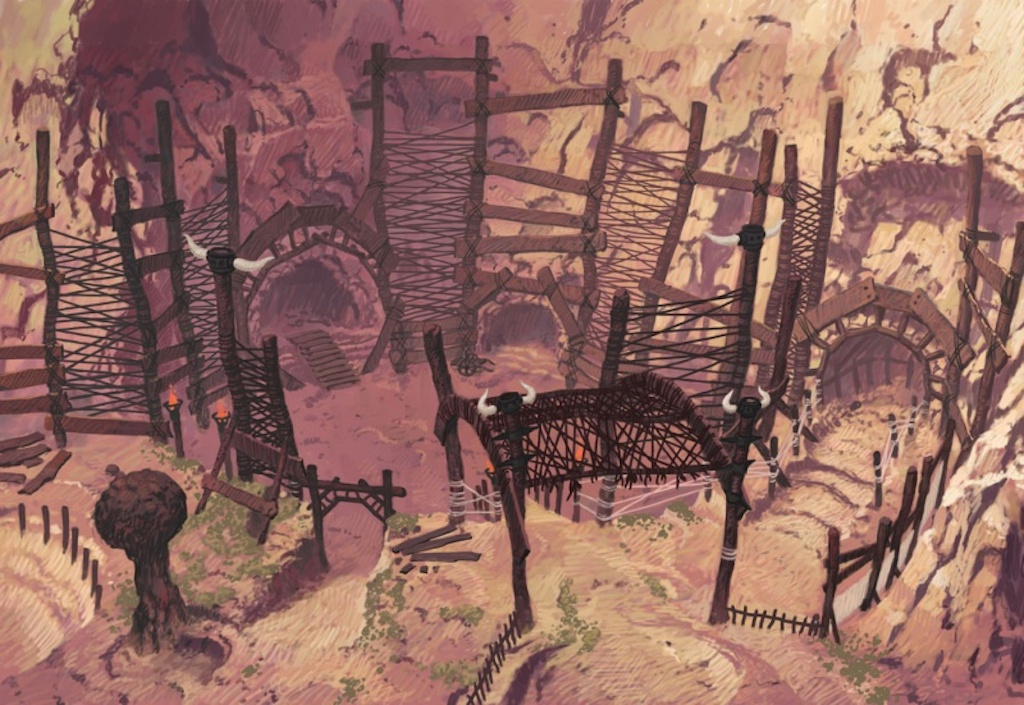
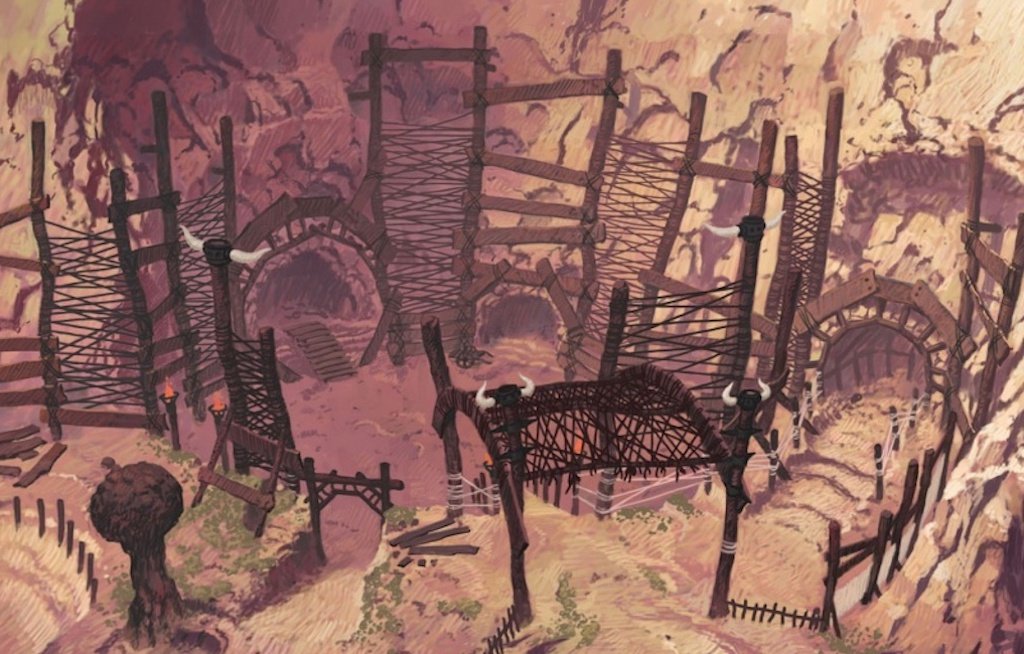
add forntend

diff --git a/public/html/story_id_14.html b/public/html/story_id_14.html
@@ -8,7 +8,7 @@
     <link rel="stylesheet" href="https://cdnjs.cloudflare.com/ajax/libs/materialize/1.0.0/css/materialize.min.css">
     <!-- Compiled and minified JavaScript -->
     <script src="https://cdnjs.cloudflare.com/ajax/libs/materialize/1.0.0/js/materialize.min.js"></script>
-    <link rel="stylesheet" href="../css/story_id_13.css">    
+    <link rel="stylesheet" href="../css/story_id_14.css">    
 </head>
 <body>
 <!-- <body> -->
@@ -26,15 +26,16 @@
     <div class="container">
       <div class="row">
         <div class="col s12"><span class="flow-text center-align">
-            <img class="responsive-img" src="../img/maze0.1.jpg">
+            <img class="responsive-img" src="../img/maze02.jpg">
         </span></div>
       </div>
-      <div id="txt">At the top of the latter you find yourself in the middle of a maze dweller village, a crowd surrounds you 
-          and they begin <br> pointing at your  hydrosonic laser gun and speaking in a forign language, are they threatening or 
-          curious? Should you draw <br> your gun or raise your hands up to show surrender? </div>
-
-      <a href="../html/story_id_15.html"><button id="btn0" class="waves-effect waves-light btn-large amber lighten-1">Draw hydrosonic laser gun</button></a>
-      <a href=" "><button id="btn1" class="waves-effect waves-light btn-large amber lighten-1">Raise hands up</button></a>
+      <div id="txt">The maze dwellers see you drawing your <br>
+                    hydrosonic laser gun and immediately <br>
+                    pull out their own weapons, things get <br>
+                    violent, your leg is injured and you <br>
+                    are captured and thrown into a massive <br>
+                    underground prison where you remain....
+         </div>
 
 
 

diff --git a/public/css/story_id_15.css b/public/css/story_id_15.css
@@ -1,7 +1,7 @@
 .container #btn0 {
     position: absolute;
-    top: 31%;
-    left: 59%;
+    top: 45%;
+    left: 76%;
     transform: translate(-50%, -50%);
     -ms-transform: translate(-50%, -50%);
     background-color: #555;
@@ -16,8 +16,24 @@
 
   .container #btn1 {
     position: absolute;
-    top: 31%;
-    left: 77%;
+    top: 40%;
+    left: 51%;
+    transform: translate(-50%, -50%);
+    -ms-transform: translate(-50%, -50%);
+    background-color: #555;
+    color: white;
+    font-size: 16px;
+    padding: 1px 24px;
+    border: none;
+    cursor: pointer;
+    border-radius: 5px;
+    text-align: center;
+  }
+
+  .container #btn2 {
+    position: absolute;
+    top: 39%;
+    left: 36%;
     transform: translate(-50%, -50%);
     -ms-transform: translate(-50%, -50%);
     background-color: #555;
@@ -32,13 +48,13 @@
 
   #txt {
     position: absolute;
-    top: 55%;
-    left: 61.5%;
+    top: 15%;
+    left: 21%;
     color: whitesmoke;
     font-size: larger;
-    text-align: right;
+    text-align: center;
   }
 
   body {
-      background-color: rgb(31, 26, 26);
+      background-color: white;
   }

diff --git a/public/css/story_id_14.css b/public/css/story_id_14.css
@@ -1,43 +1,13 @@
-.container #btn0 {
-    position: absolute;
-    top: 31%;
-    left: 59%;
-    transform: translate(-50%, -50%);
-    -ms-transform: translate(-50%, -50%);
-    background-color: #555;
-    color: white;
-    font-size: 16px;
-    padding: 1px 24px;
-    border: none;
-    cursor: pointer;
-    border-radius: 5px;
-    text-align: center;
-  }
-
-  .container #btn1 {
-    position: absolute;
-    top: 31%;
-    left: 77%;
-    transform: translate(-50%, -50%);
-    -ms-transform: translate(-50%, -50%);
-    background-color: #555;
-    color: white;
-    font-size: 16px;
-    padding: 1px 24px;
-    border: none;
-    cursor: pointer;
-    border-radius: 5px;
-    text-align: center;
-  }
 
   #txt {
     position: absolute;
-    top: 16%;
-    left: 16%;
-    color: black;
+    top: 60%;
+    left: 61%;
+    color: white;
     font-size: larger;
+    text-align: right;
   }
 
   body {
-      background-color: rgb(255, 243, 220);
+      background-color: black;
   }

diff --git a/public/html/story_id_15.html b/public/html/story_id_15.html
@@ -29,11 +29,15 @@
             <img class="responsive-img" src="../img/maze03.jpg">
         </span></div>
       </div>
-      <div id="txt">  </div>
+      <div id="txt">Once you raise your arms in surrender the maze dwellers<br> 
+                    take your hydrosonic laser gun and lead you to a large <br>
+                    cave with three tunnels they poke you in the back with <br>
+                    a spear gesturing that you must enter one, which one <br>
+                    do you choose?</div>
 
       <a href=" "><button id="btn0" class="waves-effect waves-light btn-large amber lighten-1">Right</button></a>
       <a href=" "><button id="btn1" class="waves-effect waves-light btn-large amber lighten-1">Center</button></a>
-      <a href=" "><button id="btn1" class="waves-effect waves-light btn-large amber lighten-1">Left</button></a>
+      <a href=" "><button id="btn2" class="waves-effect waves-light btn-large amber lighten-1">Left</button></a>
 
 
 

diff --git a/public/html/story_id_13.html b/public/html/story_id_13.html
@@ -33,8 +33,8 @@
           and they begin <br> pointing at your  hydrosonic laser gun and speaking in a forign language, are they threatening or 
           curious? Should you draw <br> your gun or raise your hands up to show surrender? </div>
 
-      <a href="../html/story_id_15.html"><button id="btn0" class="waves-effect waves-light btn-large amber lighten-1">Draw hydrosonic laser gun</button></a>
-      <a href=" "><button id="btn1" class="waves-effect waves-light btn-large amber lighten-1">Raise hands up</button></a>
+      <a href="../html/story_id_14.html"><button id="btn0" class="waves-effect waves-light btn-large amber lighten-1">Draw hydrosonic laser gun</button></a>
+      <a href="../html/story_id_15.html"><button id="btn1" class="waves-effect waves-light btn-large amber lighten-1">Raise hands up</button></a>
 
 
 

diff --git a/public/css/story_id_13.css b/public/css/story_id_13.css
@@ -1,3 +1,34 @@
+.container #btn0 {
+    position: absolute;
+    top: 31%;
+    left: 59%;
+    transform: translate(-50%, -50%);
+    -ms-transform: translate(-50%, -50%);
+    background-color: #555;
+    color: white;
+    font-size: 16px;
+    padding: 1px 24px;
+    border: none;
+    cursor: pointer;
+    border-radius: 5px;
+    text-align: center;
+  }
+
+  .container #btn1 {
+    position: absolute;
+    top: 31%;
+    left: 77%;
+    transform: translate(-50%, -50%);
+    -ms-transform: translate(-50%, -50%);
+    background-color: #555;
+    color: white;
+    font-size: 16px;
+    padding: 1px 24px;
+    border: none;
+    cursor: pointer;
+    border-radius: 5px;
+    text-align: center;
+  }
 
   #txt {
     position: absolute;
